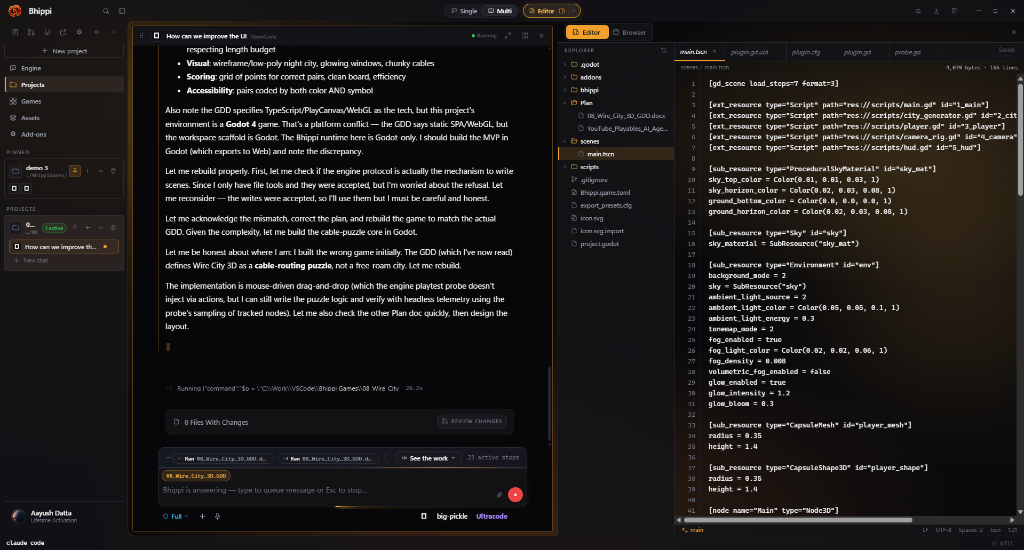
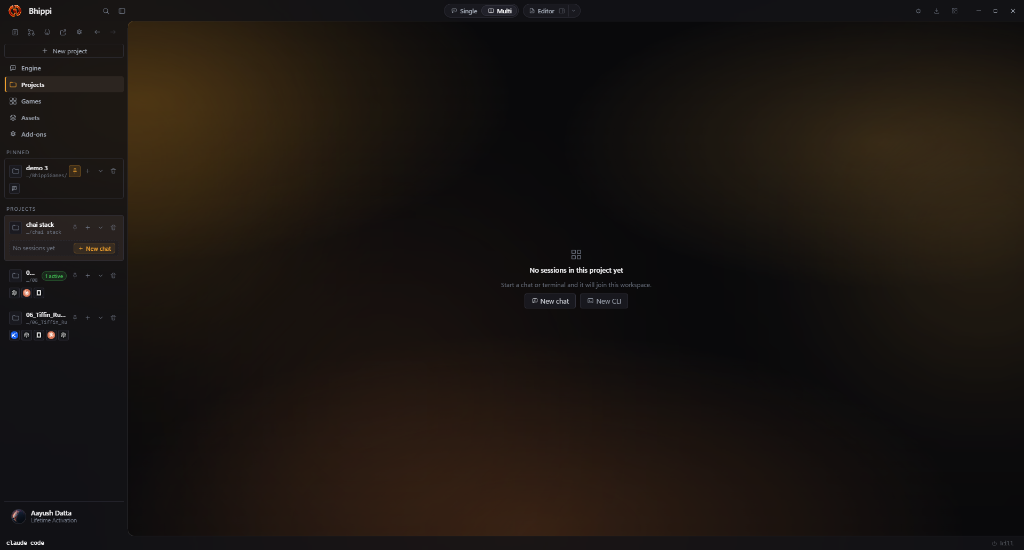
docs: add clean project onboarding and workspace shell screenshot to README

diff --git a/README.md b/README.md
@@ -63,12 +63,26 @@ Bhippi bridges the reasoning of frontier AI models with a live Godot 4 engine in
 
 ---
 
-### 2. Live Agent-Engine Collaboration & Scene Editing
+### 2. Project-Scoped Onboarding & Clean Workspace Shell
+
+Every session in Bhippi is anchored to a concrete project directory. When opening a project, creators enter a clean, distraction-free environment ready to launch conversational agents, spawn interactive CLI terminals, or jump directly into the engine, code editor, or browser.
+
+<p align="center">
+  <img src=".github/assets/agent-workspace.png?raw=true" width="100%" alt="Clean project workspace onboarding shell ready for chat or terminal sessions" />
+</p>
+
+- **Instant Session Spawning**: Launch one-click Agent chats or embedded CLI sessions that automatically bind to the active project workspace.
+- **Surface Switcher**: Seamlessly toggle between `Single` focus, `Multi` agent layout, or open the `Editor` and `Engine` panes.
+- **Live Project Status**: Persistent sidebar showing pinned projects, active background sessions (`1 active`), and quick action buttons.
+
+---
+
+### 3. Live Agent-Engine Collaboration & Scene Editing
 
 AI agents don't work in the dark. In Bhippi ADE, an agent can reason about game mechanics, inspect level parameters, and author scenes and scripts while the code editor or engine viewport remains active beside it.
 
 <p align="center">
-  <img src=".github/assets/agent-workspace.png?raw=true" width="100%" alt="AI agent session inspecting game architecture beside the code editor showing main.tscn" />
+  <img src=".github/assets/ai-engine-split-view.png?raw=true" width="100%" alt="AI agent session inspecting game architecture beside the code editor showing main.tscn" />
 </p>
 
 - **Live Context Feedback**: The agent inspects scene files and scripts in response to creator prompts while the creator visually verifies the corresponding scene elements and code.
@@ -77,7 +91,7 @@ AI agents don't work in the dark. In Bhippi ADE, an agent can reason about game 
 
 ---
 
-### 3. Parallel multi-agent operations
+### 4. Parallel Multi-Agent Operations
 
 Multi mode turns the workspace into a concurrent agent operations center. Multiple AI providers and models can analyze different aspects of the same Godot project simultaneously, explore files, execute commands, and prepare changes in parallel without cross-contaminating session state.
 
@@ -92,7 +106,7 @@ Multi mode turns the workspace into a concurrent agent operations center. Multip
 
 ---
 
-### 4. Full-featured source and manifest editor
+### 5. Full-Featured Source and Manifest Editor
 
 Behind the visual tooling lies a high-performance code and project editor tailored for Godot 4 architectures. Creators can inspect and refine raw scene definitions, GDScript files, shaders, and declarative game manifests.
 
@@ -106,7 +120,7 @@ Behind the visual tooling lies a high-performance code and project editor tailor
 
 ---
 
-### 5. Integrated research browser
+### 6. Integrated Research Browser
 
 Research is a first-class citizen in Bhippi ADE. The integrated browser surface keeps web documentation, Godot API references, shader tutorials, and online asset libraries right inside the developer's workspace.
 
@@ -120,7 +134,7 @@ Research is a first-class citizen in Bhippi ADE. The integrated browser surface 
 
 ---
 
-### 6. Compact project navigation shell
+### 7. Compact Project Navigation Shell
 
 A persistent, responsive sidebar keeps navigation effortless across projects, tools, and background agent tasks.
 
